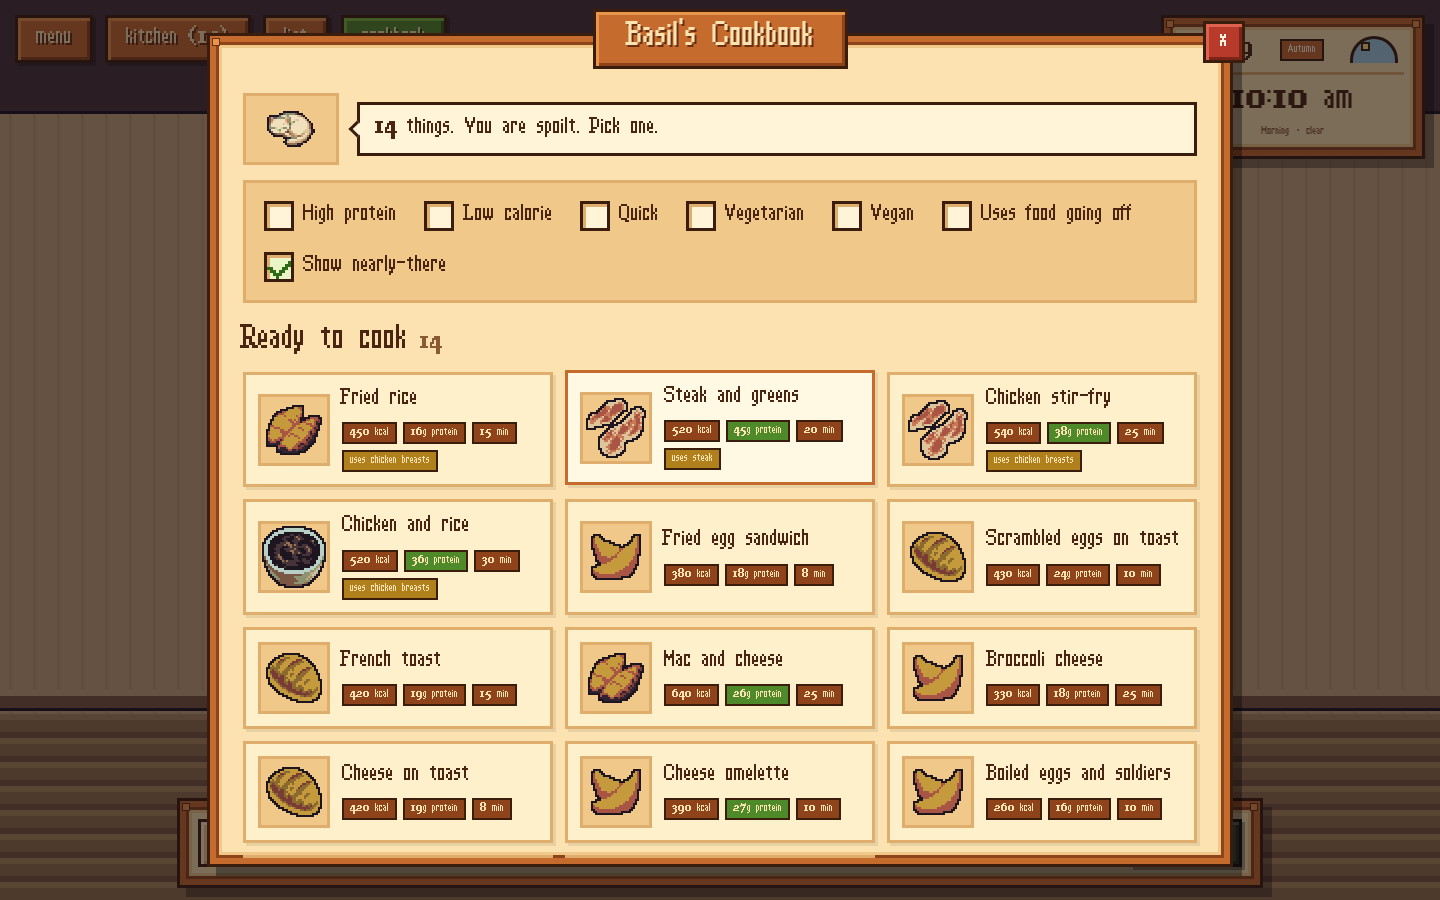
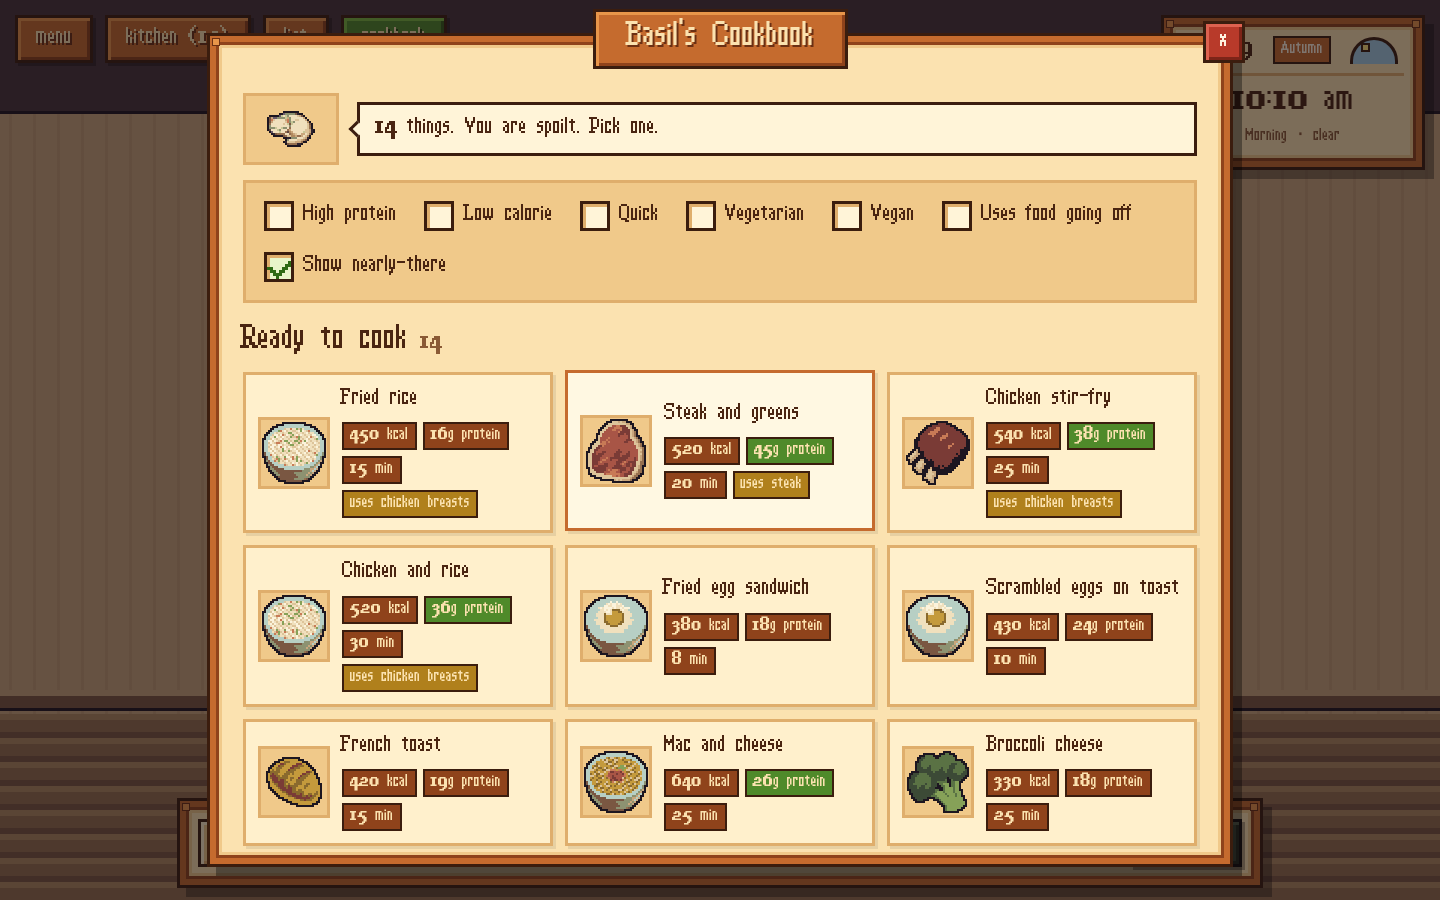
Refresh the README, screenshots, demo GIF and link preview
The screenshots and GIF show the current game: the new egg and dishes,
readable small text. The link preview LinkedIn and others show is now
the kitchen with Basil's name and tagline on it, without the menus. The
README gains CI and stack badges, a security section and current
numbers, and the screenshots script now exits when it is done.
Version 1.0.0.

Claude-Session: https://claude.ai/code/session_01SSiXV2pLDWYupprFHTkAds

Changed region(s): [[0.1562, 0.4356, 0.8438, 0.9644], [0.8438, 0.1244, 1.0, 0.2178], [0.875, 0.0311, 0.9688, 0.0933]]

diff --git a/tools/gif.py b/tools/gif.py
@@ -1,7 +1,7 @@
 """Turn docs/frames into the README's demo GIF, the season strip and the
 link-preview image. Run after `npm run screenshots`:  python3 -I tools/gif.py"""
 import glob, os
-from PIL import Image
+from PIL import Image, ImageDraw, ImageFont
 
 ROOT = os.path.dirname(os.path.dirname(os.path.abspath(__file__)))
 D = os.path.join(ROOT, "docs")
@@ -22,8 +22,48 @@ grid = Image.new("RGB", (w * 2, h * 2))
 for i, im in enumerate(seasons): grid.paste(im, ((i % 2) * w, (i // 2) * h))
 grid.save(os.path.join(D, "seasons.png"))
 
-# link preview, 1200 x 630, cropped from the kitchen shot
-k = Image.open(os.path.join(D, "kitchen.png")).convert("RGB")
-left, top = (k.width - 1200) // 2, max(0, (k.height - 630) // 2)
-k.crop((left, top, left + 1200, top + 630)).save(os.path.join(ROOT, "public", "og.png"))
+# link preview, 1200 x 630: the kitchen without the menus, with the title on
+# the bare wall top left, drawn in the game's own font and colours
+OUTLINE, WOOD, WOOD_LIGHT, WOOD_DARK, WOOD_DEEP = "#3b1d0e", "#c56b2e", "#e8964a", "#8f431b", "#6b3014"
+CREAM, LEAF = "#fff1cf", "#a9d36a"
+FONT = os.path.join(ROOT, "src", "assets", "fonts", "TinyRPG-FineFantasyStrategies.ttf")
+
+k = Image.open(os.path.join(F, "og-kitchen.png")).convert("RGB")
+# the left edge of the shot is bare wall: room for the title beside Basil
+og = k.crop((0, 135, 1200, 765))
+d = ImageDraw.Draw(og)
+
+
+def outlined(xy, text, font, fill, edge=6, shadow=0):
+    x, y = xy
+    if shadow:
+        for dx in (-edge, 0, edge):
+            for dy in (-edge, 0, edge):
+                d.text((x + dx, y + dy + shadow), text, font=font, fill=OUTLINE)
+        d.text((x, y + shadow), text, font=font, fill=WOOD_DEEP)
+    for dx in (-edge, 0, edge):
+        for dy in (-edge, 0, edge):
+            d.text((x + dx, y + dy), text, font=font, fill=OUTLINE)
+    d.text((x, y), text, font=font, fill=fill)
+
+
+big, small = ImageFont.truetype(FONT, 120), ImageFont.truetype(FONT, 24)
+x, y = 44, 70
+outlined((x, y), "Basil", big, CREAM, shadow=12)
+bw = d.textlength("B", font=big)
+d.text((x + bw, y), "a", font=big, fill=LEAF)     # the green a, as on the title screen
+
+lines = ["a cosy kitchen,", "and the cat who runs it"]
+tw = max(d.textlength(t, font=small) for t in lines)
+bx, by, bw2, bh = x - 6, y + 160, tw + 36, 84
+d.rectangle([bx - 3, by - 3, bx + bw2 + 3, by + bh + 3], fill=OUTLINE)
+d.rectangle([bx, by, bx + bw2, by + bh], fill=WOOD)
+d.rectangle([bx, by, bx + bw2, by + 2], fill=WOOD_LIGHT)
+d.rectangle([bx, by, bx + 2, by + bh], fill=WOOD_LIGHT)
+d.rectangle([bx, by + bh - 2, bx + bw2, by + bh], fill=WOOD_DARK)
+for n, t in enumerate(lines):
+    ty = by + 15 + n * 33
+    d.text((bx + 20, ty + 2), t, font=small, fill=WOOD_DEEP)
+    d.text((bx + 18, ty), t, font=small, fill="#fbe2b0")
+og.save(os.path.join(ROOT, "public", "og.png"))
 print("demo.gif", len(gif), "frames,", os.path.getsize(os.path.join(D, "demo.gif")) // 1024, "KB")

diff --git a/README.md b/README.md
@@ -6,6 +6,11 @@ can cook with it.
 
 **[Play it → basil-cat.vercel.app](https://basil-cat.vercel.app)**
 
+[![CI](https://github.com/aboodgitawaida/Basil/actions/workflows/ci.yml/badge.svg)](https://github.com/aboodgitawaida/Basil/actions/workflows/ci.yml)
+![React 18](https://img.shields.io/badge/React-18-61dafb)
+![TypeScript](https://img.shields.io/badge/TypeScript-strict-3178c6)
+[![Code: MIT](https://img.shields.io/badge/code-MIT-green)](LICENSE)
+
 ![Typing groceries, watching them land in the fridge, and opening Basil's cookbook](docs/demo.gif)
 
 | | |
@@ -38,30 +43,34 @@ can cook with it.
 
 ![The same kitchen in spring, summer, autumn and winter](docs/seasons.png)
 
-## Tech
+## How it's built
 
-- **React 18 + TypeScript + Vite.** No game engine: the room is DOM elements
-  placed in "art pixels" (1 px = 1 cm) and scaled by one whole number, so pixel
-  art never blurs.
+- **React 18 + TypeScript (strict) + Vite.** No game engine: the room is DOM
+  elements placed in "art pixels" (1 px = 1 cm) and scaled by one whole
+  number, so pixel art never blurs. Phones and portrait tablets get the
+  kitchen half of the room at a larger scale.
 - **AI behind a serverless function.** `/api/parse` and `/api/suggest` run in
   one Vercel function (`api/[...path].ts`); locally the same handlers run
-  inside Vite or Express. The model key is read server-side only and never
-  reaches the browser bundle. Supports Gemini or Groq, with JSON-schema
-  output, strict validation, a per-visitor rate limit, and an 8-second client
-  timeout.
+  inside Vite or Express. Supports Gemini or Groq with JSON-schema output, and
+  every reply is strictly validated before the app trusts it.
 - **Works without AI.** A keyword parser and a built-in recipe book are the
   fallback for a missing key, a slow model, a bad reply or no network. The
-  app never blocks on the model.
+  app never blocks on the model: reading a list gives up after 8 seconds.
 - **Local-first.** Everything is saved in `localStorage` behind a `Repository`
-  interface, with versioned migrations. No accounts.
+  interface, with versioned migrations. No accounts. The only things that
+  leave the browser are what you type and what's in your kitchen (sent to
+  the model to read it), and your rough location, only if you switch on real
+  weather.
 - **Pure logic, well tested.** Parsing, shelf layout (`src/lib/arrange.ts`),
-  recipe matching, the shopping list, storage migrations and the API
-  validators are pure functions with 166 unit tests (Vitest), plus a
-  Playwright smoke test that plays through the main loop at desktop and phone
-  sizes. CI runs typecheck, tests, build and the smoke test on every push.
-- **Art pipeline in Python.** `tools/` remaps every sprite onto one 24-colour
-  palette, and builds the fridge doors, Basil's awake poses and the site icon
-  from the source packs.
+  recipe matching, the shopping list, storage migrations, room scaling and the
+  API are covered by 183 unit tests (Vitest), plus a Playwright test that
+  plays through the main loop at desktop and phone sizes. CI runs the
+  typecheck, tests, build and browser test on every push.
+- **One art style from eight packs.** `tools/` is a Python pipeline that crops
+  every sprite, remaps it onto one 27-colour palette, gives it the same
+  outline and scales it to world size, then draws the room, the open doors,
+  Basil's awake poses and a few dishes the packs didn't have. See
+  [tools/README.md](tools/README.md).
 
 ```
 src/
@@ -69,11 +78,24 @@ src/
   ui/      menus: cookbook, shopping list, settings, title screen
   lib/     pure logic: parsing, recipes, layout, storage, time and seasons
 server/    API handlers, providers, schemas, rate limit (shared by Vercel and Express)
-tools/     sprite pipeline (Python)
+api/       the Vercel entry point
+tools/     the sprite pipeline (Python)
 scripts/   Playwright smoke test and README screenshots
+test/      unit tests
 ```
 
+### Security
+
+The model key is read server-side only and never reaches the browser bundle.
+The API refuses requests made from other websites, caps calls per visitor
+(20 a minute, 300 a day by default), limits body size, and never passes the
+provider's own error text back to the browser. The site sends a strict
+Content Security Policy and the usual hardening headers (`vercel.json`), and
+`npm audit` is clean.
+
 ## Running it
+
+Needs Node 22.12 or newer.
 
 ```sh
 npm install
@@ -86,6 +108,7 @@ Without a key, everything works on the built-in reader and cookbook.
 ```sh
 npm test            # unit tests
 npm run typecheck   # client, server and tests
+npx playwright install chromium        # once, for the browser tests
 npm run build && npm run smoke         # end-to-end smoke test
 npm run build && npm run screenshots   # regenerate docs/ (then python3 -I tools/gif.py)
 ```
@@ -103,9 +126,8 @@ GROQ_API_KEY=...           # or GEMINI_API_KEY
 ```
 
 `BASIL_MODEL` pins a model name. `BASIL_RATE_PER_MIN` and `BASIL_RATE_PER_DAY`
-cap model calls per visitor (default 20 a minute, 300 a day). The counts live
-in memory per serverless instance, so also set a spending limit in your
-provider's dashboard.
+change the per-visitor caps. The counts live in memory per serverless
+instance, so also set a spending limit in your provider's dashboard.
 
 ### Deploying
 
@@ -114,6 +136,8 @@ Environment Variables and deploy. `/api/*` runs as one serverless function.
 
 ## Credits
 
-The art and sound come from free asset packs, used with their creators'
-permission; see [CREDITS.md](CREDITS.md). The code is MIT-licensed; the art
-and audio are not covered by that licence and may not be reused.
+The art, fonts and sound come from free packs by KARSIORI, Frostwindz,
+ToffeeCraft, Riley (rkuhlf-assets), Stealthix, Emi Emi Games, tiopalada,
+Kenney and Redlight_Chill; see [CREDITS.md](CREDITS.md) for links and
+licences. The code is MIT-licensed; the art and audio are not covered by
+that licence.
